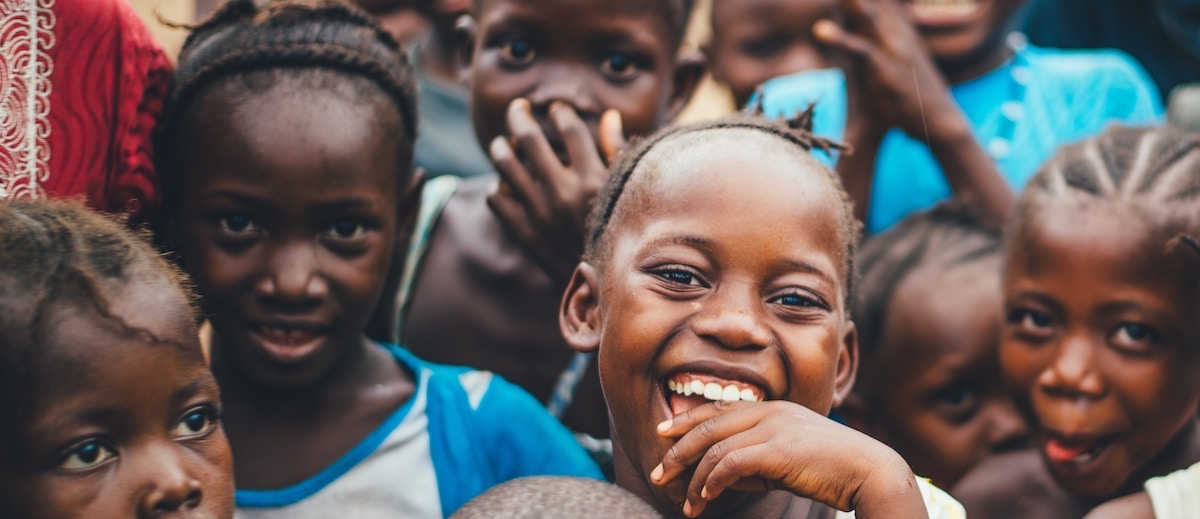
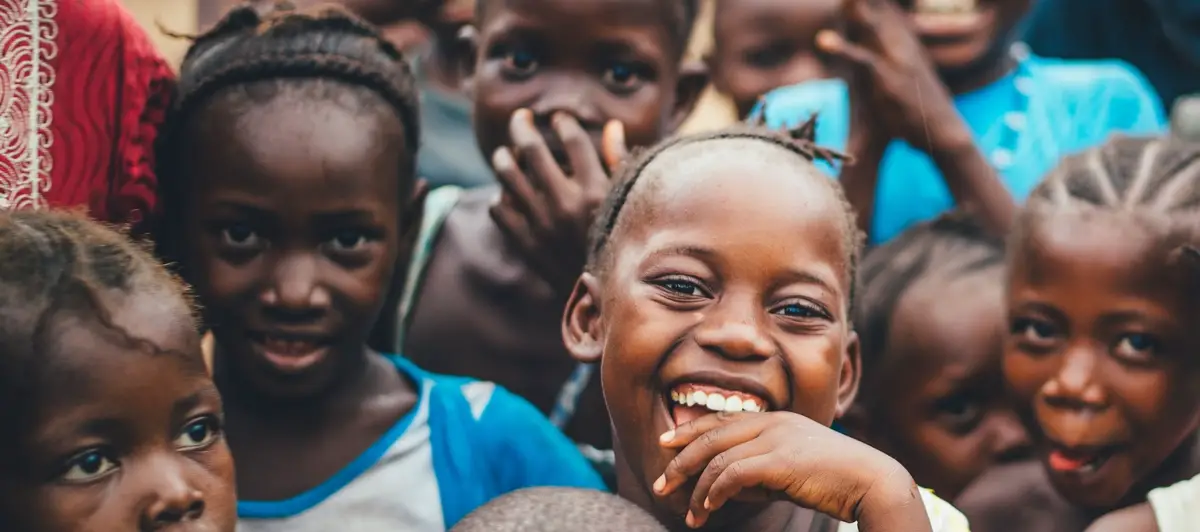
Resize homepage image & convert to webp

diff --git a/index.html b/index.html
@@ -123,18 +123,22 @@
           <!-- If the screen width is between 601px and 800px,the image source will be used -->
           <source
             media="(max-width: 600px)"
-            srcset="assets/images/homepage-image/image-small.jpg"
+            srcset="assets/images/homepage-image/image-small.webp"
+                 type="image/webp"
           />
           <!-- If the screen width is between 801px and 1200px, the image source will be used-->
           <source
             media="(max-width: 800px)"
-            srcset="assets/images/homepage-image/image-medium.jpg"
+            srcset="assets/images/homepage-image/image-medium.webp"
+                 type="image/webp"
           />
           <!--if screen width is greater than 1200px, the image source will be used-->
           <source
             media="(max-width: 1200px)"
-            srcset="assets/images/homepage-image/image-large.jpg"
+            srcset="assets/images/homepage-image/image-large.webp"
+                 type="image/webp"
           />
+              <!-- Fallback for browsers not supporting WebP -->
           <img
             src="assets/images/homepage-image/image-large.jpg"
             alt="Image of happy african kids"
